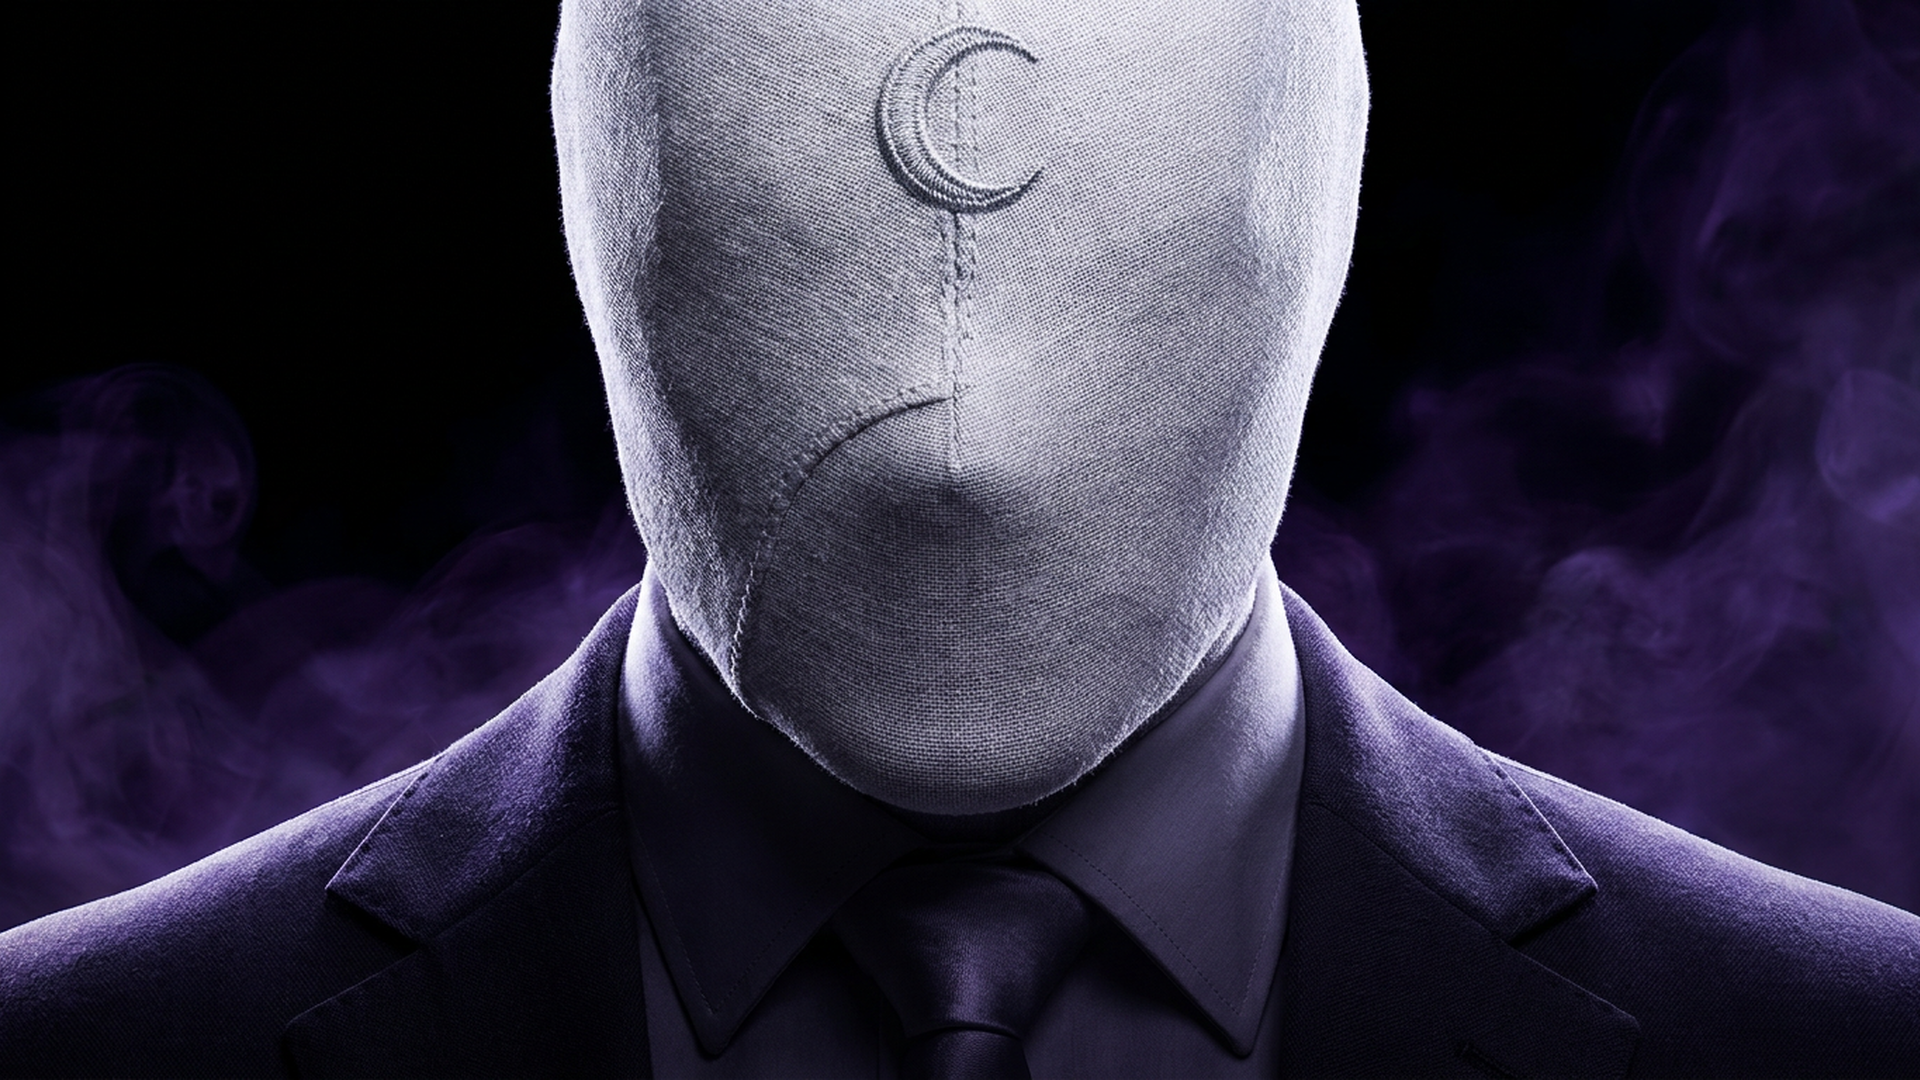
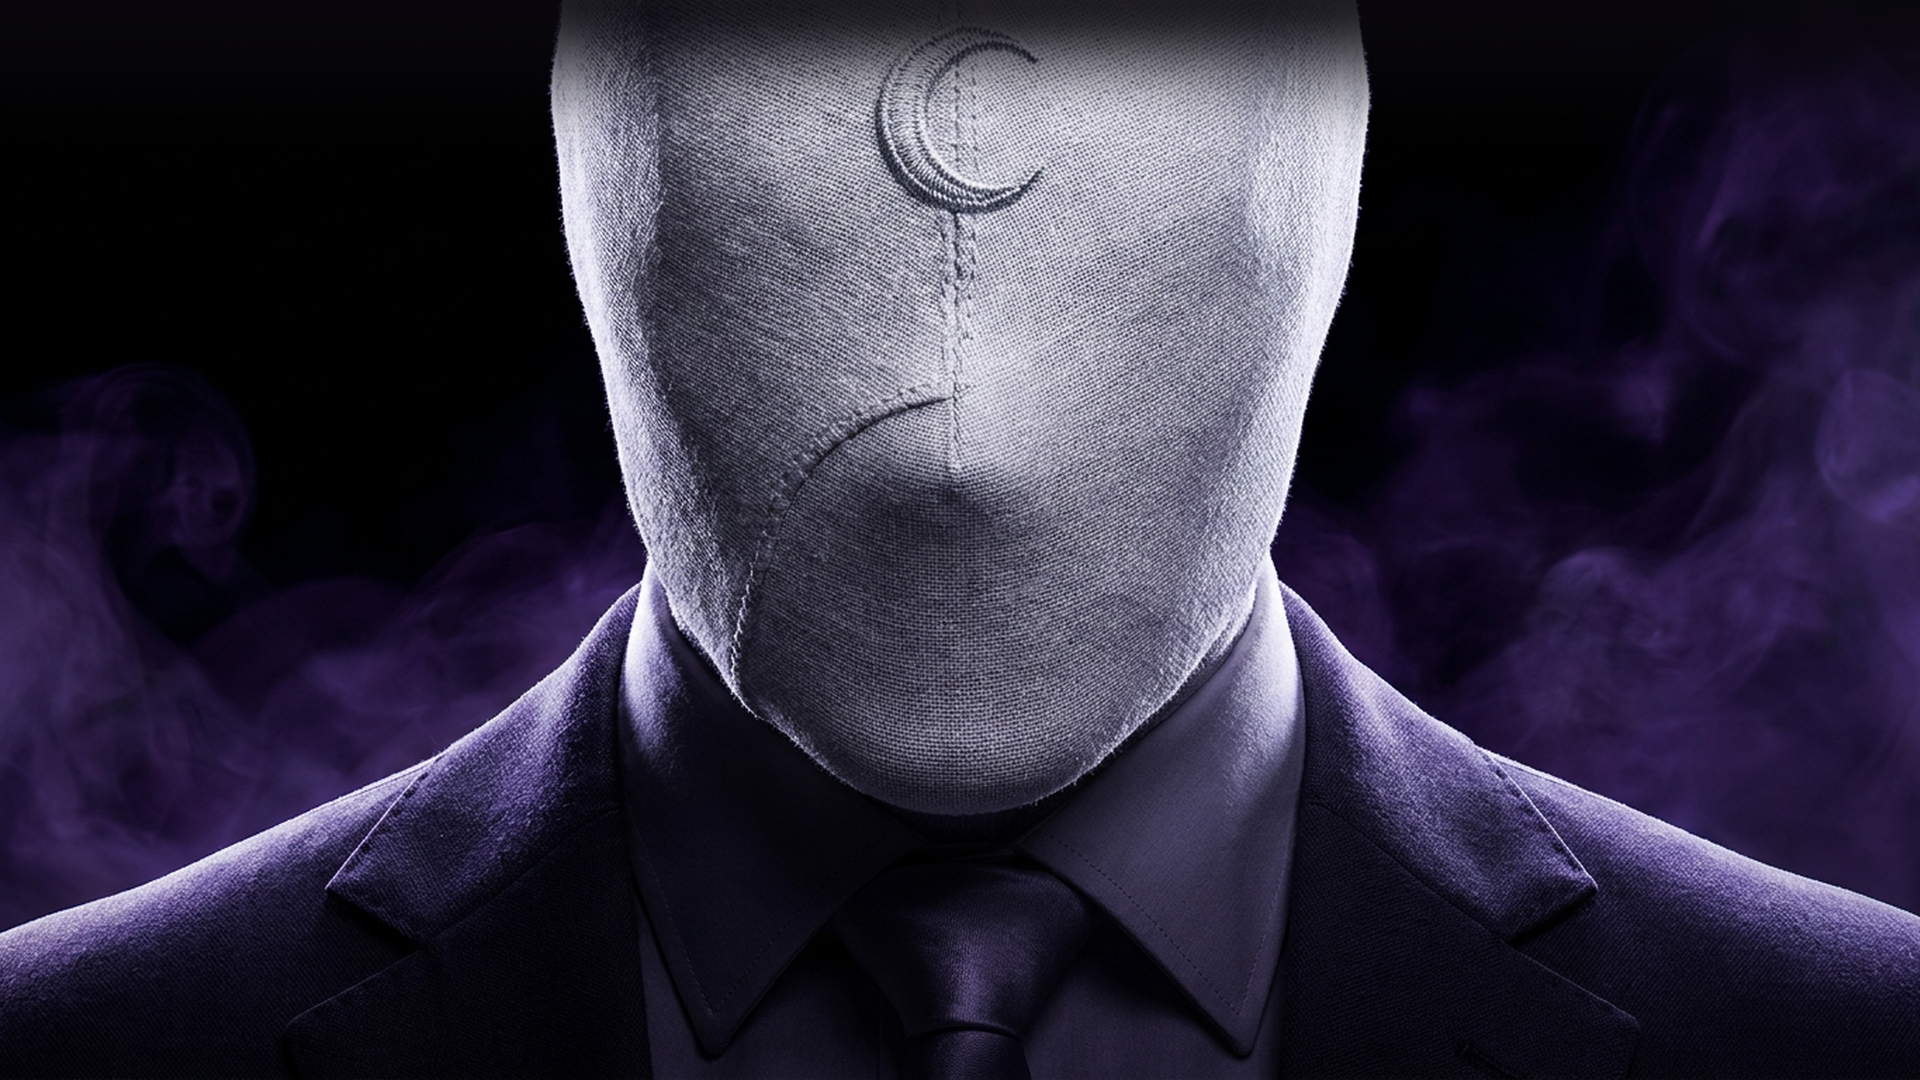
Update backgrounds: fix bar contrast on 2-mr-knight-noir and replace 3-6 with Jake Lockley & Mr. Knight gloves macro noir wallpapers

Changed region(s): [[0.2812, 0.0, 0.7188, 0.1222]]

diff --git a/README.md b/README.md
@@ -35,14 +35,12 @@ Inspired by the dark psychological noir aesthetic of Warren Ellis, Declan Shalve
 | `magenta` | `#a855f7` | Ethereal divinity purple |
 | `cyan` | `#67e8f9` | Cold lunar spectral cyan |
 
-## Included Wallpapers (6 Ultra-High Res Backgrounds)
+## Included Wallpapers
 
 1. **The Fist of Khonshu** (`backgrounds/1-moon-knight-cowl.png`): Macro anamorphic close-up of Moon Knight's weathered linen mummy cowl, frayed threads, glowing white eyes, and violet rim lighting on pitch black.
 2. **Mr. Knight Noir** (`backgrounds/2-mr-knight-noir.png`): High-contrast tactile close-up of Mr. Knight's woven mask, embroidered crescent moon, and tailored suit framed by violet smoke.
-3. **The Shattered Mind** (`backgrounds/3-shattered-mind.png`): Fractured mirror shards suspended in pitch black void, reflecting the dissociative alters (Moon Knight, Mr. Knight, Marc Spector) amid swirling violet ether.
-4. **Crescent Dart** (`backgrounds/4-crescent-dart.png`): Heavy silver crescent blade embedded in wet asphalt with glowing violet hieroglyphic runes and frozen raindrops.
-5. **Khonshu's Relic** (`backgrounds/5-khonshu-skull.png`): Weathered Egyptian bird god skull engraved with hieroglyphs, wrapped in ancient linen beside a crescent moon staff.
-6. **The Midnight Wraith** (`backgrounds/6-wraith-descent.png`): Moon Knight descending through the night with cape billowed wide in the shape of a giant crescent moon against violet cosmic nebulae.
+3. **Jake Lockley's Cab** (`backgrounds/3-jake-lockley-cab.png`): Macro noir close-up inside a rain-soaked cab with Jake Lockley's intense gaze in the rearview mirror, flat cap, and black leather-gloved hand on the wheel.
+4. **Mr. Knight's Gloves** (`backgrounds/4-mr-knight-gloves.png`): Macro close-up of Mr. Knight adjusting his white leather gloves and silver crescent cufflinks against a tailored white three-piece suit.
 
 ## Installation
 
